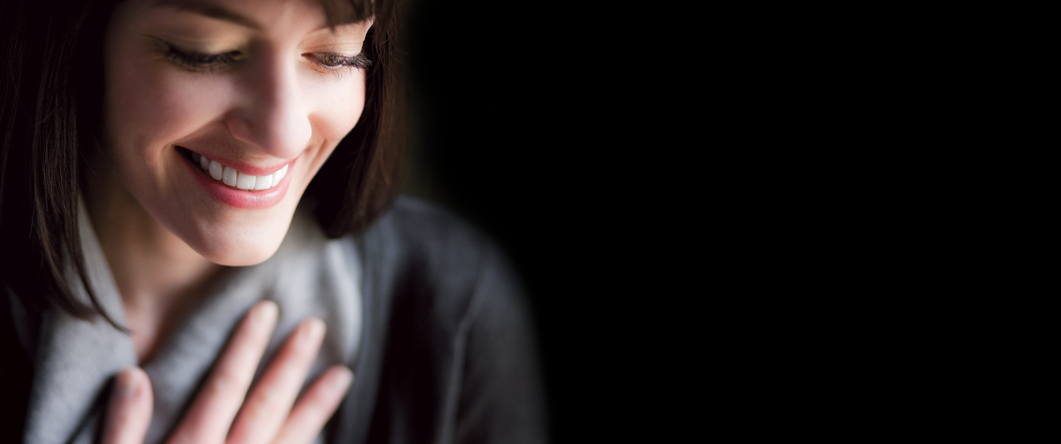
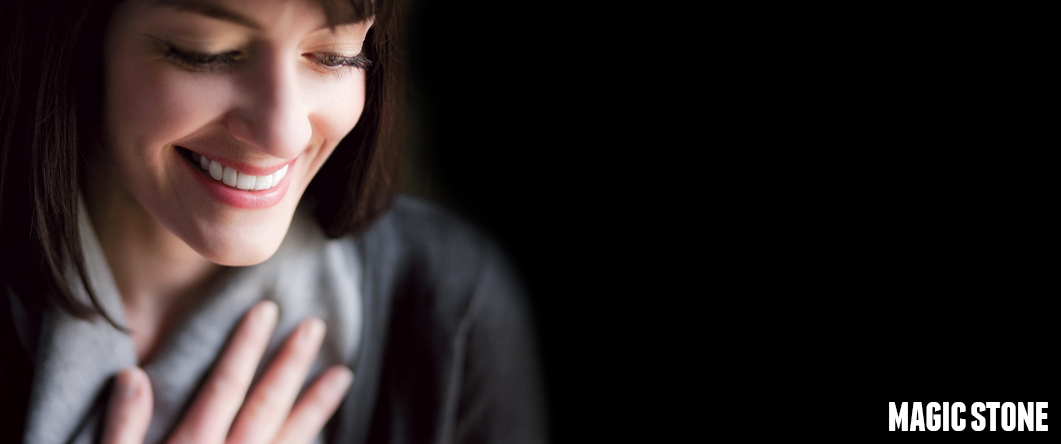
added text to woman-full

Changed region(s): [[0.8398, 0.9077, 0.9953, 0.9955]]

diff --git a/index.html b/index.html
@@ -78,8 +78,8 @@
       <div id="carouselExampleIndicators" class="carousel slide .d-none .d-sm-block col-s-12 col-lg-6 m-0 pointer-event" data-ride="carousel">
         <ol class="carousel-indicators" style="z-index:1 !important">
           <li data-target="#carouselExampleIndicators" data-slide-to="0" class=""></li>
-          <li data-target="#carouselExampleIndicators" data-slide-to="1" class="active"></li>
-          <li data-target="#carouselExampleIndicators" data-slide-to="2" class=""></li>
+          <li data-target="#carouselExampleIndicators" data-slide-to="1" class=""></li>
+          <li data-target="#carouselExampleIndicators" data-slide-to="2" class="active"></li>
         </ol>
       <div class="carousel-inner">
         <div class="carousel-item">
@@ -90,7 +90,7 @@
             </div>      
           </div>
         </div>
-      <div class="carousel-item active">
+      <div class="carousel-item">
         <img class="d-block w-100" src="img/carousel.png" alt="Second slide">
         <div class="absolute-div">
           <div class="carousel-content">
@@ -98,7 +98,7 @@
           </div>      
         </div>
       </div>
-      <div class="carousel-item">
+      <div class="carousel-item active">
         <img class="d-block w-100" src="img/carousel.png" alt="Third slide">
         <div class="absolute-div">
           <div class="carousel-content">
@@ -177,9 +177,9 @@
 <div class="row">
 <div class="card border-0 text-left text-white mt-sm-2 mt-lg-4 col-md-12">
     <img src="img/woman-full.png" alt="Woman smiling" class="card-img rounded-0">
-      <div class="card-img-overlay d-flex justify-content-center">
+      <div class="card-img-overlay d-flex align-items-center">
         <div class="w-100"></div>
-        <div class="w-100 mr-sm-3 mr-md-4 pr-2 pr-sm-3 pr-md-4 mt-3 d-flex align-items-center d-md-block">
+        <div class="w-100 mr-sm-3 mr-md-4 pr-2 pr-sm-3 pr-md-4 mt-3 mt-lg-0 d-flex justify-content-center d-md-block">
           <h4>Why Magic Stone?</h4>
           <p class="d-none d-md-block">Magic Stone carries a large selection of Diamond Engagement Rings, Diamond Earrings, Pendants, Bracelets, Pearls and Fashion Jewelry. If you are interested in Beautiful Jewelry which will always make an outstanding presentation in any setting, Magic Stone is the destination for you.</p>
           <p class="d-none d-lg-block">We are staffed by knowledgeable sales people and Graduates of the Gemological Institute of America. We also understand the importance of service to our customers and our expert jewelers do in-store manufacturing, sizing, and repairs.</p>
@@ -191,7 +191,7 @@
        </div>
     
 <div class="container mt-3 d-md-none">
-    <div class="row d-flex justify-content-start">
+    <div class="row d-flex justify-content-center">
     <p>Magic Stone carries a large selection of Diamond Engagement Rings, Diamond Earrings, Pendants, Bracelets, Pearls and Fashion Jewelry. If you are interested in Beautiful Jewelry which will always make an outstanding presentation in any setting, Magic Stone is the destination for you.</p>
      <p>We are staffed by knowledgeable sales people and Graduates of the Gemological Institute of America. We also understand the importance of service to our customers and our expert jewelers do in-store manufacturing, sizing, and repairs.</p>
     <button type="button" class="btn btn-primary">Read More</button>
@@ -245,5 +245,5 @@
   </script>
   <script src="https://www.google-analytics.com/analytics.js" async="" defer=""></script>
 
-</body>
-</html>
+
+</body></html>

diff --git a/css/custom.css b/css/custom.css
@@ -243,6 +243,12 @@ footer .container-fluid {
 
 /* Media Queries */
 
+@media (max-width: 400px){
+.carousel-content h3 {
+	font-size: 2rem !important;
+}
+}
+
 @media (max-width: 600px){
 /* Mobile Devices*/
 
@@ -265,14 +271,19 @@ h3 {
 @media (min-width: 768px){
 /* Tablets */
 
-h3 {
-	font-size: .8rem;
+.carousel-content h3 {
+	font-size: 4rem;
 }
 
 .list-inline-item img {
 	height: 28px !important;
 	width: auto !important;
 	margin-right: 0 !important;
+}
+
+.navbar-expand-md .navbar-nav .nav-link {
+	padding-right: 0 !important;
+	padding-left: 0 !important;
 }
 
 .search-container input#search{
@@ -311,15 +322,23 @@ width: 200px;
 background-color: #fff;
 
 }
+
+.card-img-overlay h4 {
+	font-size: 1.5rem;
+}
 	
 }
 
 @media (min-width: 992px) {
-/* Desktop */
+/* Desktop*/
 
 
-h3 {
-	font-size: .8rem;
+.carousel-content h3 {
+	font-size: 3rem;
+}
+
+.card-img-overlay h4 {
+	font-size: larger;
 }
 
 
@@ -335,3 +354,9 @@ button {
 
 }
 
+@media (min-width: 1200px) {
+
+.card-img-overlay h4 {
+	font-size:x-large;
+}
+}
